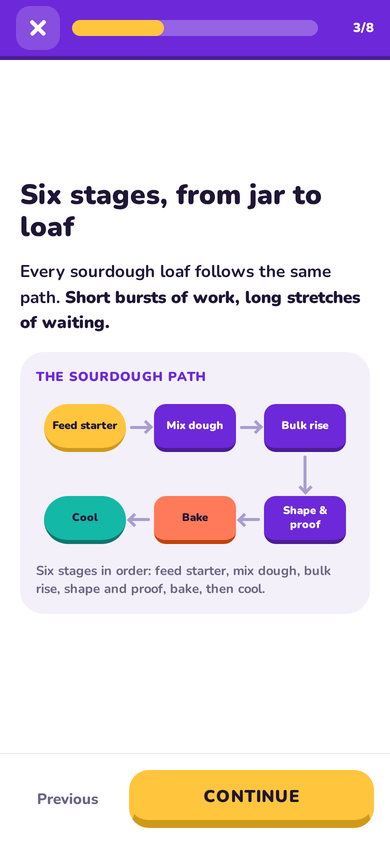
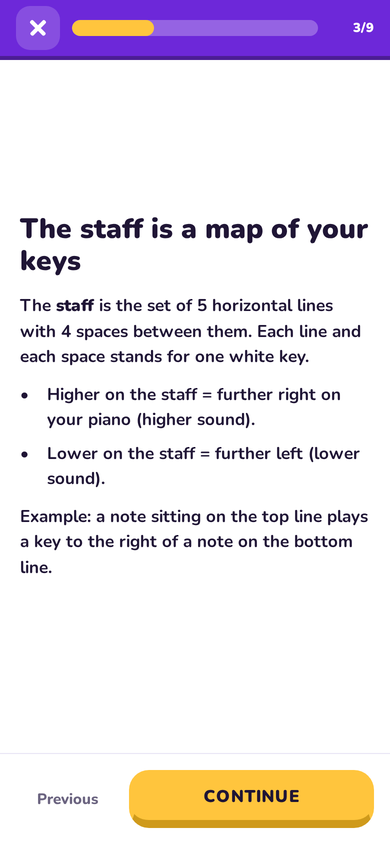
docs(#71): README screenshots from the merged accessibility and layout fixes

Changed region(s): [[0.0308, 0.2156, 0.9538, 0.7085], [0.3692, 0.0, 0.4308, 0.0616]]

diff --git a/README.md b/README.md
@@ -20,9 +20,9 @@ Poko runs on iOS, Android and the web from one Expo codebase. A small API server
 <p align="center">
   <img src="docs/images/home.png" width="180" alt="Home: Poko asks what you want to learn, with suggested goals">
   <img src="docs/images/skill-path.png" width="180" alt="A course's winding skill path with the first lesson ready">
-  <img src="docs/images/lesson.png" width="180" alt="A lesson slide with a diagram of the sourdough process">
-  <img src="docs/images/feedback.png" width="180" alt="Teaching feedback after a wrong answer, with Try again">
-  <img src="docs/images/celebration.png" width="180" alt="Lesson complete: celebration with progress glass and streak">
+  <img src="docs/images/lesson.png" width="180" alt="A lesson slide explaining the musical staff">
+  <img src="docs/images/feedback.png" width="180" alt="Feedback after answering a quick check">
+  <img src="docs/images/celebration.png" width="180" alt="Lesson complete: celebration with a recap, progress glass and streak">
 </p>
 
 ## Features
